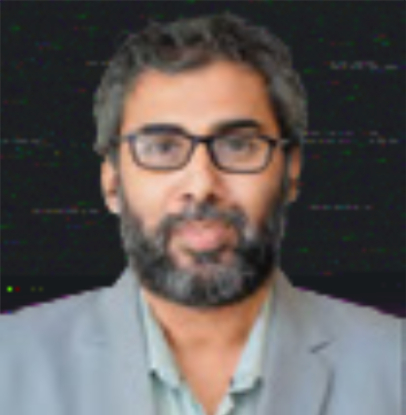
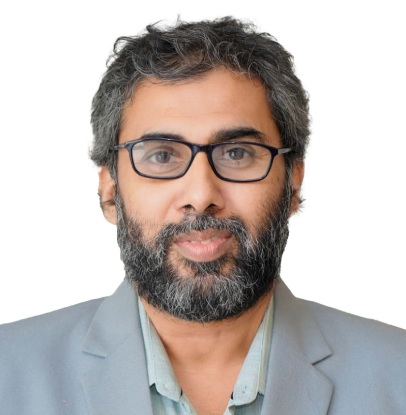
ss

diff --git a/chairmanpage.html b/chairmanpage.html
@@ -115,27 +115,29 @@
       </nav>
     </section>
 
-    <section class="bg-dark-subtle">
+    <!-- <section class="bg-dark-subtle">
       <div class="container">
         <div class="row">
           <div class="col-12 col-lg-5 mt-5 mb-0  ms-auto">
-            <img class="w-100" src="assets/images/leadership/man1.png" alt="">
+            <img class="w-100" src="assets/images/leadership/ABDULSALAM.jpg" alt="">
           </div>
           <div class="col-12 col-lg-5 my-auto py-5 me-auto">
             <h1 class="gradbluegreen">DR. ABDUL SALAM MOHAMMED</h1>
           </div>
         </div>
       </div>
-    </section>
+    </section> -->
 
-    <section class="bg-black">
+    <section class="bg-black text-white">
       <div class="container p-5">
         <div class="row py-4 mb-5" style="border-bottom: solid 3px rgb(14 199 92);">
           <div class="col-12 col-lg-3 p-4">
-            <img class="w-100" src="assets/images/philosophy/man1.png" alt="">
+            <img class="w-100" src="assets/images/leadership/ABDULSALAM.jpg" alt="">
           </div>
           <div class="col-12 col-lg-9">
-            <p class="text-white py-4">A scientist in every act, word, and deed, Dr. Abdul Salam sees matters from a different
+            <h3 class="gradbluegreen my-4 greenunderline">DR. ABDUL SALAM MOHAMMED</h3>
+            <h4>Chairman</h4>
+            <p class=" py-4">A scientist in every act, word, and deed, Dr. Abdul Salam sees matters from a different
               perspective. He gives a new dimension to the mundane and quickly identifies
               opportunities in what comes in front of him. He has earned his academic credentials
               from prestigious institutions in India and abroad, and has spent over three decades
@@ -235,6 +237,21 @@
           </div>
           <div class="col-12 col-lg-5 p-4">
             <img class="w-100" src="assets/images/leadership/ABDULMAJID.jpg" alt="">
+          </div>
+        </div>
+        <div id="vahid" class="row py-4 mb-5" style="border-bottom: solid 3px rgb(14 199 92);">
+          <div class="col-12 col-lg-5 p-4">
+            <img class="w-100" src="assets/images/leadership/ABDULVAHID.JPG" alt="">
+          </div>
+          <div class="col-12 col-lg-7 text-white">
+            <h3 class="gradbluegreen my-4 greenunderline">ABDUL VAHID</h3>
+            <h4>Director, Global Sales</h4>
+            <p class=" py-4">• Skilled in relationship-building through effective communication. <br>
+              • Experienced in team building, management, and leadership.<br>
+              • Internationally trained in developing high-growth teams.<br>
+              • Precision in planning and executing strategies.<br>
+              • Proficient in strategic sales planning and exceeding targets.<br>
+              • Expertise in global market analysis and identifying new opportunities.</p>
           </div>
         </div>
       </div>

diff --git a/leadership.html b/leadership.html
@@ -124,7 +124,7 @@
       <div class="container">
         <div class="row">
           <div class="col-12 col-lg-5 mt-5 mb-0  ms-auto">
-            <img class="w-100" src="assets/images/leadership/YAHYA.jpg" alt="">
+            <img class="w-100 p-4" src="assets/images/leadership/YAHYA.jpg" alt="">
           </div>
           <div class="col-12 col-lg-5 my-auto p-5 me-auto">
             <h1 class="gradbluegreen">OUR <br> LEADERSHIP</h1>
@@ -176,6 +176,13 @@
                 <img class="w-75 m-5" src="assets/images/leadership/ABDULMAJID.jpg" alt="">
                 <h3 class="greenlink">ABDUL MAJID</h3>
                 <h6>Director, Business Development</h6>
+              </a>
+            </div>
+            <div class="col-12 col-lg-6 text-center">
+              <a href="chairmanpage.html#majid" class="text-decoration-none text-white greenlink">
+                <img class="w-75 m-5" src="assets/images/leadership/ABDULVAHID.JPG" alt="">
+                <h3 class="greenlink">ABDUL VAHID</h3>
+                <h6>Director, Global Sales</h6>
               </a>
             </div>
 
